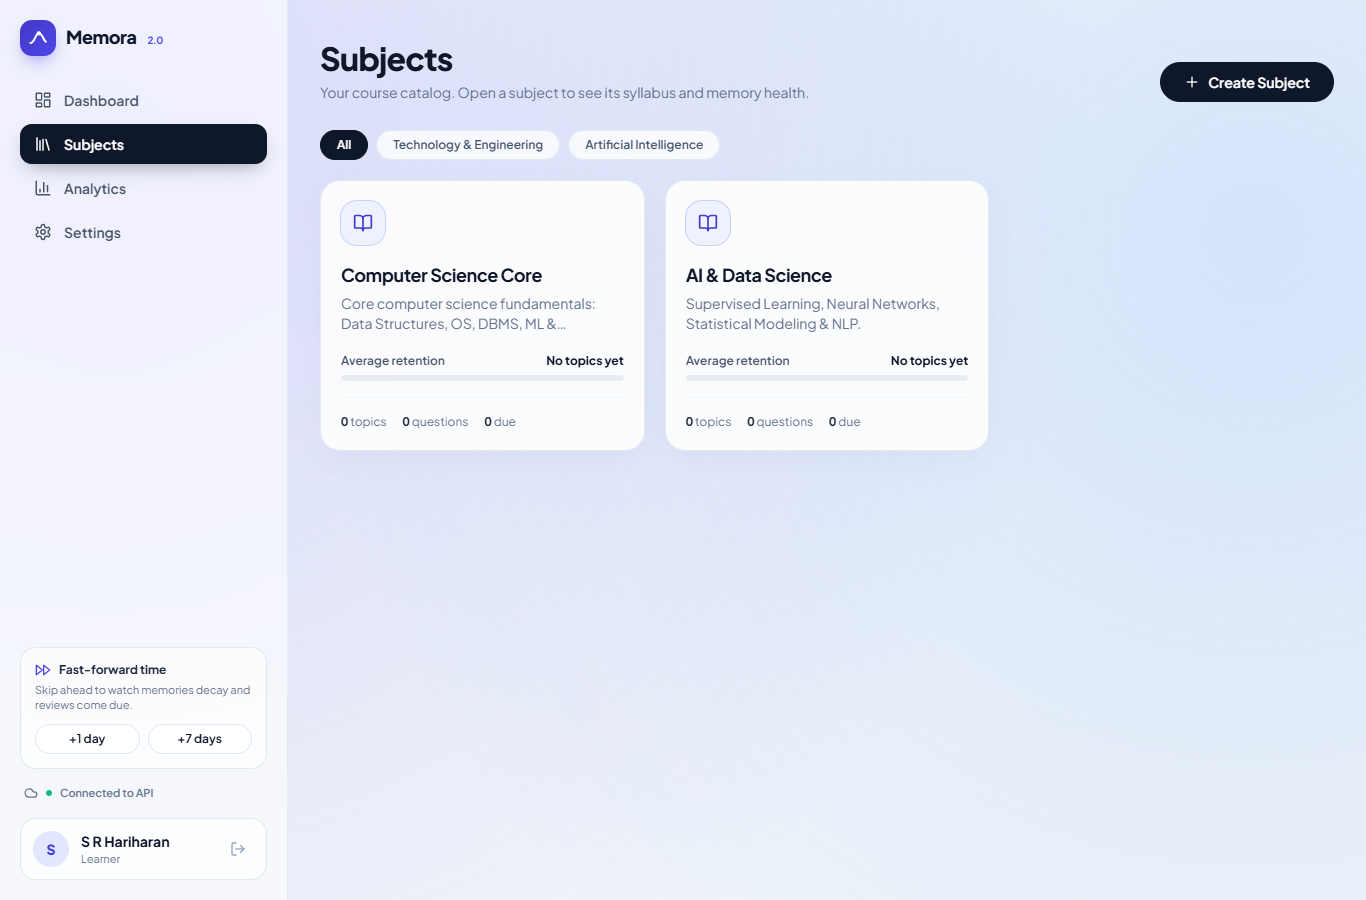
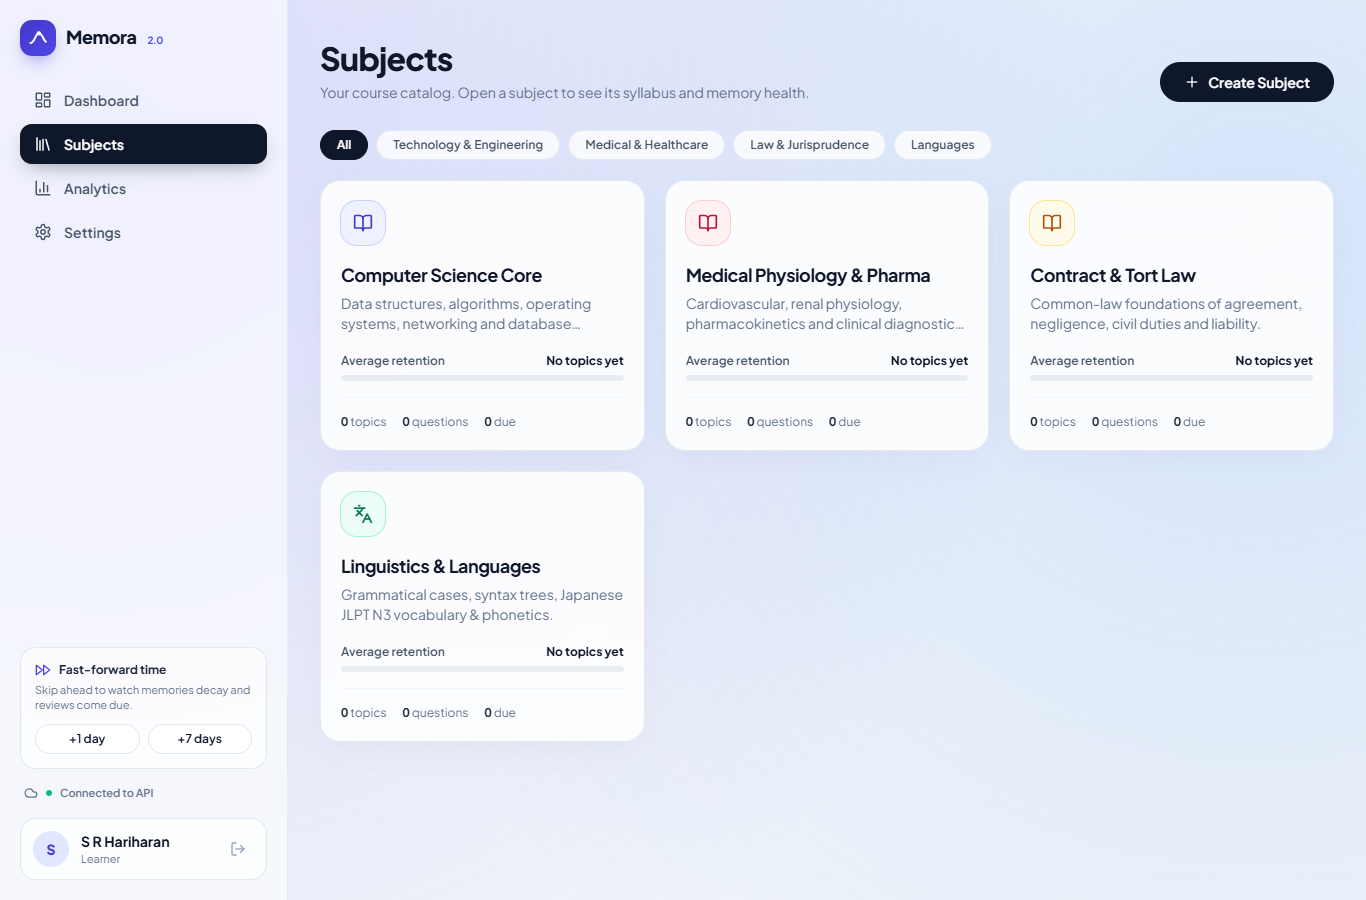
fix(content): resolve untitled concept names and populate 4 distinct multi-discipline subject catalogs

diff --git a/memora-ui/src/utils/memory.js b/memora-ui/src/utils/memory.js
@@ -77,10 +77,13 @@ export function normalizeConcept(c = {}) {
   const elapsed =
     c.elapsed_days ?? (retention > 0 && retention < 1 ? -strength * Math.log(retention) : retention >= 1 ? 0 : strength * 4);
   const accuracy = c.accuracy != null ? toFrac(c.accuracy) : c.reviews ? toFrac((c.correct || 0) / c.reviews) : 0.7;
+  const rawId = c.id ?? c.concept_id ?? c.topic_id;
+  const rawName = c.name ?? c.title ?? c.concept_name ?? c.topic_name;
+  const name = rawName || (rawId ? String(rawId).replace(/_/g, ' ').replace(/\b\w/g, (l) => l.toUpperCase()) : 'Concept');
   return {
     ...c,
-    id: c.id ?? c.concept_id ?? c.topic_id,
-    name: c.name ?? c.title ?? 'Untitled concept',
+    id: rawId,
+    name,
     subject_id: c.subject_id,
     subject_name: c.subject_name ?? c.subject ?? '',
     retention,

diff --git a/routes/subjects.py b/routes/subjects.py
@@ -4,88 +4,157 @@ from storage import store
 
 subjects_bp = Blueprint("subjects", __name__)
 
+# Complete multi-discipline subject catalog
+SUBJECT_CATALOG = {
+    "cs": {
+        "id": "cs",
+        "subject_id": "cs",
+        "name": "Computer Science Core",
+        "category": "Technology & Engineering",
+        "color": "indigo",
+        "description": "Data structures, algorithms, operating systems, networking and database fundamentals.",
+        "topics": [
+            {"id": "data_structures", "name": "Data Structures & Trees", "module": "Data Structures", "strength": 9.0, "last_review": 0, "difficulty": 0.4, "question_count": 10},
+            {"id": "ds_hashtables", "name": "Hash Tables & Collisions", "module": "Data Structures", "strength": 12.0, "last_review": 0, "difficulty": 0.5, "question_count": 8},
+            {"id": "bigo_notation", "name": "Big-O Asymptotic Complexity", "module": "Algorithms", "strength": 6.0, "last_review": 0, "difficulty": 0.3, "question_count": 8},
+            {"id": "operating_systems", "name": "Operating Systems & Process Sched", "module": "Operating Systems", "strength": 4.0, "last_review": 0, "difficulty": 0.6, "question_count": 10},
+            {"id": "dbms_normalization", "name": "DBMS Normalization & Relational", "module": "Databases", "strength": 2.5, "last_review": 0, "difficulty": 0.7, "question_count": 8},
+            {"id": "computer_networks", "name": "Computer Networks & TCP Handshake", "module": "Networking", "strength": 3.2, "last_review": 0, "difficulty": 0.55, "question_count": 10},
+        ],
+    },
+    "med": {
+        "id": "med",
+        "subject_id": "med",
+        "name": "Medical Physiology & Pharma",
+        "category": "Medical & Healthcare",
+        "color": "rose",
+        "description": "Cardiovascular, renal physiology, pharmacokinetics and clinical diagnostic essentials.",
+        "topics": [
+            {"id": "cardiac_cycle", "name": "Cardiac Cycle & Pressure Dynamics", "module": "Cardiovascular", "strength": 7.0, "last_review": 0, "difficulty": 0.7, "question_count": 8},
+            {"id": "nephron_physiology", "name": "Nephron Physiology & Transporters", "module": "Renal Physiology", "strength": 10.0, "last_review": 0, "difficulty": 0.5, "question_count": 8},
+            {"id": "pharmacokinetics", "name": "Pharmacokinetics & Half-Life Bioavailability", "module": "Pharmacology", "strength": 14.0, "last_review": 0, "difficulty": 0.45, "question_count": 8},
+        ],
+    },
+    "law": {
+        "id": "law",
+        "subject_id": "law",
+        "name": "Contract & Tort Law",
+        "category": "Law & Jurisprudence",
+        "color": "amber",
+        "description": "Common-law foundations of agreement, negligence, civil duties and liability.",
+        "topics": [
+            {"id": "negligence_elements", "name": "Elements of Negligence & Duty of Care", "module": "Torts", "strength": 5.0, "last_review": 0, "difficulty": 0.6, "question_count": 6},
+            {"id": "offer_acceptance", "name": "Offer, Acceptance & Consideration", "module": "Contracts", "strength": 8.0, "last_review": 0, "difficulty": 0.4, "question_count": 6},
+        ],
+    },
+    "lang": {
+        "id": "lang",
+        "subject_id": "lang",
+        "name": "Linguistics & Languages",
+        "category": "Languages",
+        "color": "emerald",
+        "description": "Grammatical cases, syntax trees, Japanese JLPT N3 vocabulary & phonetics.",
+        "topics": [
+            {"id": "japanese_n3", "name": "Japanese JLPT N3 Grammar & Kanji", "module": "Japanese", "strength": 11.0, "last_review": 0, "difficulty": 0.5, "question_count": 10},
+            {"id": "grammatical_cases", "name": "Grammatical Cases & Morphosyntax", "module": "Linguistics", "strength": 6.5, "last_review": 0, "difficulty": 0.55, "question_count": 8},
+        ],
+    },
+}
+
+
+def _enrich_topics(learner_id, topics, current_day):
+    # Cross reference with learner's store concepts if present
+    concepts_map = {c["concept_id"]: c for c in (store.list_concepts(learner_id) or [])}
+    enriched = []
+    for t in topics:
+        tid = t["id"]
+        store_c = concepts_map.get(tid)
+        strength = store_c["strength"] if store_c else t["strength"]
+        last_rev = store_c["last_review"] if store_c else t["last_review"]
+        days_since = current_day - last_rev
+        r = round(ebbinghaus.retention(strength, days_since), 4)
+        
+        enriched.append({
+            "id": tid,
+            "topic_id": tid,
+            "name": t["name"],
+            "title": t["name"],
+            "module": t.get("module", "General"),
+            "strength": strength,
+            "last_review": last_rev,
+            "retention": r,
+            "status": ebbinghaus.status_for(r),
+            "difficulty": t.get("difficulty", 0.5),
+            "question_count": t.get("question_count", 8),
+        })
+    return enriched
+
 
 @subjects_bp.get("/api/subjects")
 def list_subjects():
     learner_id = request.args.get("learner_id", "L_HARIHARAN")
-    concepts = store.list_concepts(learner_id) or []
     current_day = store.get_current_day()
 
-    # Default category mapping
-    cs_concepts = []
-    for c in concepts:
-        days_since = current_day - c["last_review"]
-        r = round(ebbinghaus.retention(c["strength"], days_since), 4)
-        cs_concepts.append({
-            "id": c["concept_id"],
-            "name": c["name"],
-            "retention": r,
-            "status": ebbinghaus.status_for(r),
-            "strength": c["strength"],
-            "last_review": c["last_review"],
+    out_subjects = []
+    for key, s in SUBJECT_CATALOG.items():
+        topics = _enrich_topics(learner_id, s["topics"], current_day)
+        avg_r = round(sum(t["retention"] for t in topics) / len(topics), 4) if topics else 1.0
+        out_subjects.append({
+            "id": s["id"],
+            "subject_id": s["id"],
+            "key": s["id"],
+            "name": s["name"],
+            "title": s["name"],
+            "category": s["category"],
+            "color": s["color"],
+            "description": s["description"],
+            "concept_count": len(topics),
+            "topics_count": len(topics),
+            "topics": topics,
+            "concepts": topics,
+            "overall_retention": avg_r,
+            "average_retention": avg_r,
         })
 
-    # Group into subjects
-    subjects = [
-        {
-            "id": "computer_science",
-            "name": "Computer Science Core",
-            "category": "Technology & Engineering",
-            "description": "Core computer science fundamentals: Data Structures, OS, DBMS, ML & Computer Networks.",
-            "concept_count": len(cs_concepts),
-            "concepts": cs_concepts,
-            "overall_retention": round(sum(c["retention"] for c in cs_concepts) / len(cs_concepts), 4) if cs_concepts else 1.0,
-        },
-        {
-            "id": "ai_machine_learning",
-            "name": "AI & Data Science",
-            "category": "Artificial Intelligence",
-            "description": "Supervised Learning, Neural Networks, Statistical Modeling & NLP.",
-            "concept_count": 2,
-            "concepts": [
-                {"id": "ml_fundamentals", "name": "ML Fundamentals", "retention": 1.0, "status": "stable", "strength": 6.0},
-                {"id": "neural_networks", "name": "Neural Networks", "retention": 1.0, "status": "stable", "strength": 4.5},
-            ],
-            "overall_retention": 1.0,
-        }
-    ]
-
-    return jsonify({"learner_id": learner_id, "subjects": subjects})
+    return jsonify({"learner_id": learner_id, "subjects": out_subjects, "data": out_subjects})
 
 
 @subjects_bp.get("/api/subjects/<subject_id>")
 def get_subject(subject_id):
     learner_id = request.args.get("learner_id", "L_HARIHARAN")
-    concepts = store.list_concepts(learner_id) or []
     current_day = store.get_current_day()
 
-    topic_list = []
-    for c in concepts:
-        days_since = current_day - c["last_review"]
-        r = round(ebbinghaus.retention(c["strength"], days_since), 4)
-        topic_list.append({
-            "id": c["concept_id"],
-            "topic_id": c["concept_id"],
-            "name": c["name"],
-            "title": c["name"],
-            "retention": r,
-            "status": ebbinghaus.status_for(r),
-            "strength": c["strength"],
-            "last_review": c["last_review"],
-            "difficulty": c.get("difficulty", 0.5),
-            "question_count": 10,
-        })
+    s = SUBJECT_CATALOG.get(subject_id)
+    if not s:
+        # Fallback for dynamic user-created subject
+        s = {
+            "id": subject_id,
+            "subject_id": subject_id,
+            "name": subject_id.replace("_", " ").title(),
+            "category": "Custom Course",
+            "color": "indigo",
+            "description": "User created custom course syllabus.",
+            "topics": [
+                {"id": f"{subject_id}_topic_1", "name": f"{subject_id.replace('_', ' ').title()} Fundamentals", "strength": 5.0, "last_review": 0}
+            ]
+        }
 
-    subject = {
-        "id": subject_id,
-        "subject_id": subject_id,
-        "name": "Computer Science Core" if subject_id == "computer_science" else subject_id.replace("_", " ").title(),
-        "category": "Technology & Engineering",
-        "topics": topic_list,
-        "concepts": topic_list,
-        "overall_retention": round(sum(t["retention"] for t in topic_list) / len(topic_list), 4) if topic_list else 1.0,
-    }
-    return jsonify(subject)
+    topics = _enrich_topics(learner_id, s["topics"], current_day)
+    avg_r = round(sum(t["retention"] for t in topics) / len(topics), 4) if topics else 1.0
+
+    return jsonify({
+        "id": s["id"],
+        "subject_id": s["id"],
+        "name": s["name"],
+        "title": s["name"],
+        "category": s["category"],
+        "color": s.get("color", "indigo"),
+        "description": s.get("description", ""),
+        "topics": topics,
+        "concepts": topics,
+        "overall_retention": avg_r,
+        "average_retention": avg_r,
+    })
 
 
 @subjects_bp.post("/api/subjects")
@@ -95,15 +164,21 @@ def create_subject():
     name = data.get("name") or data.get("title") or "New Subject"
     subject_id = name.lower().replace(" ", "_")
 
-    return jsonify({
-        "success": True,
+    new_sub = {
         "id": subject_id,
         "subject_id": subject_id,
         "name": name,
+        "title": name,
         "category": data.get("category", "General"),
+        "color": data.get("color", "indigo"),
+        "description": data.get("description", ""),
         "topics": [],
         "concepts": [],
-    }), 201
+        "overall_retention": 1.0,
+    }
+    SUBJECT_CATALOG[subject_id] = new_sub
+
+    return jsonify({"success": True, "subject": new_sub, **new_sub}), 201
 
 
 @subjects_bp.post("/api/subjects/<subject_id>/topics")
@@ -112,17 +187,21 @@ def create_topic(subject_id):
     name = data.get("name") or data.get("title") or "New Topic"
     learner_id = data.get("learner_id", "L_HARIHARAN")
 
-    # Add concept to store
     res = store.add_concept(learner_id, name, float(data.get("difficulty", 0.5)))
     topic_id = res["concept_id"] if res else name.lower().replace(" ", "_")
 
-    return jsonify({
-        "success": True,
+    new_topic = {
         "id": topic_id,
         "topic_id": topic_id,
         "name": name,
-        "subject_id": subject_id,
+        "module": data.get("module", "General"),
         "strength": 6.0,
-        "retention": 1.0,
-        "status": "stable",
-    }), 201
+        "last_review": store.get_current_day(),
+        "difficulty": float(data.get("difficulty", 0.5)),
+        "question_count": 5,
+    }
+
+    if subject_id in SUBJECT_CATALOG:
+        SUBJECT_CATALOG[subject_id]["topics"].append(new_topic)
+
+    return jsonify({"success": True, "topic": new_topic, **new_topic}), 201
